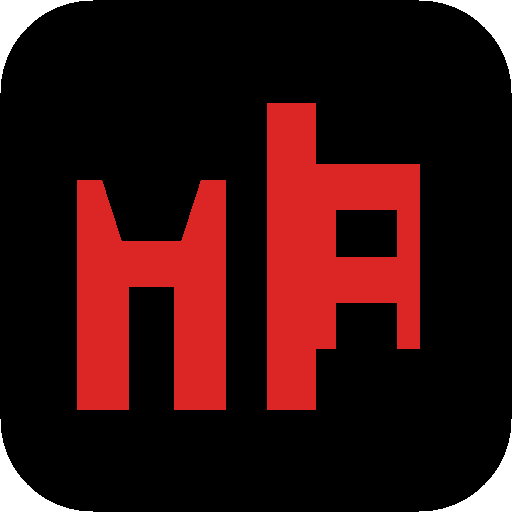
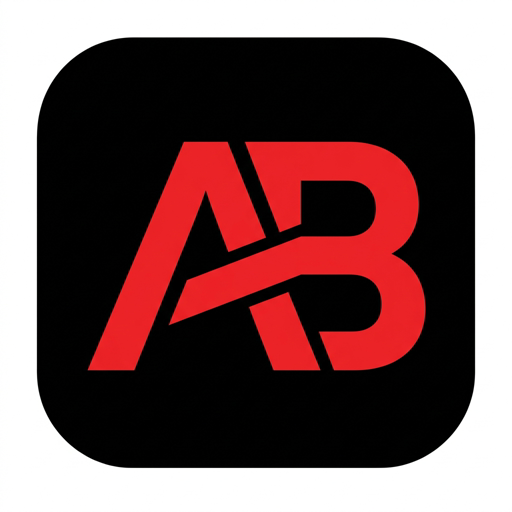
feat: implement PWA support with VitePWA
Integrate vite-plugin-pwa for improved offline capabilities and installation experience. Updated branding assets, unified the logo design, and removed legacy manual service worker unregistration logic.

diff --git a/components/Layout.tsx b/components/Layout.tsx
@@ -84,17 +84,27 @@ export function HeaderTitle({ text }: { text: string }) {
 export function Logo({ size = "text-4xl", subSize = "text-xs", collapsed = false }: { size?: string, subSize?: string, collapsed?: boolean }) {
   if (collapsed) {
     return (
-      <div className="p-2 bg-card rounded-xl border border-border shadow-2xl flex items-center justify-center">
-        <span className="text-red-600 font-black italic text-xs transform -skew-x-12">AB</span>
+      <div className="p-1.5 bg-zinc-900 rounded-xl border border-white/10 shadow-2xl flex items-center justify-center">
+        <svg viewBox="0 0 100 100" className="w-5 h-5">
+          <path d="M20 20 L20 80 M20 50 L50 50 M50 20 L50 80 M50 20 L80 20 L80 50 L50 50 L80 50 L80 80 L50 80" stroke="#DC2626" strokeWidth="12" fill="none" strokeLinecap="square" strokeLinejoin="miter" />
+        </svg>
       </div>
     );
   }
   return (
     <div className="text-center group select-none flex flex-col items-center justify-center w-full overflow-hidden px-2">
-      <h1 className={`${size} font-black italic mb-0 transform -skew-x-12 tracking-tighter transition-all text-foreground uppercase leading-[0.9] px-1`} style={{ textShadow: '1px 1px 0px currentColor, -1px -1px 0px currentColor, 1px -1px 0px currentColor, -1px 1px 0px currentColor' }}>
-        AB<span className="text-red-600">FIT</span>
-      </h1>
-      <p className={`${subSize} text-muted-foreground tracking-tight sm:tracking-[0.25em] uppercase font-bold leading-none mt-3 sm:mt-4 opacity-80 whitespace-nowrap overflow-hidden text-ellipsis w-full`}>Assessoria em Treinamentos Físicos</p>
+      <div className="relative mb-3 group-hover:scale-105 transition-transform duration-500">
+        <svg viewBox="0 0 160 100" className="h-16 sm:h-20 drop-shadow-[0_0_15px_rgba(220,38,38,0.4)]">
+          {/* Monograma AB Estilizado - Alinhado com o screenshot */}
+          <g transform="translate(10, 10)">
+            {/* Letra A */}
+            <path d="M0 0 L0 80 M0 40 L40 40 M40 0 L40 80" stroke="#FFFFFF" strokeWidth="16" fill="none" />
+            {/* Letra B */}
+            <path d="M60 0 L60 80 M60 0 L110 0 L110 40 L60 40 L110 40 L110 80 L60 80" stroke="#DC2626" strokeWidth="16" fill="none" />
+          </g>
+        </svg>
+      </div>
+      <p className={`${subSize} text-muted-foreground tracking-tight sm:tracking-[0.25em] uppercase font-bold leading-none mt-1 opacity-80 whitespace-nowrap overflow-hidden text-ellipsis w-full`}>Assessoria em Treinamentos Físicos</p>
     </div>
   );
 }

diff --git a/vite.config.ts b/vite.config.ts
@@ -1,6 +1,7 @@
 
 import { defineConfig, loadEnv } from 'vite';
 import react from '@vitejs/plugin-react';
+import { VitePWA } from 'vite-plugin-pwa';
 // Fix: Import process explicitly from node:process to ensure proper typing in Node environment
 import process from 'node:process';
 
@@ -8,7 +9,52 @@ export default defineConfig(({ mode }) => {
   // Fix: Use process.cwd() from the imported node process to safely load environment variables
   const env = loadEnv(mode, process.cwd(), '');
   return {
-    plugins: [react()],
+    plugins: [
+      react(),
+      VitePWA({
+        registerType: 'autoUpdate',
+        includeAssets: ['favicon.ico', 'apple-touch-icon.png', 'pwa-192x192.png', 'pwa-512x512.png'],
+        manifest: {
+          id: '/',
+          name: 'ABFIT: Oficial',
+          short_name: 'ABFIT',
+          description: 'Assessoria em Treinamentos Físicos ABFIT',
+          theme_color: '#000000',
+          background_color: '#000000',
+          display: 'standalone',
+          orientation: 'portrait',
+          start_url: '/',
+          scope: '/',
+          icons: [
+            {
+              src: '/pwa-192x192.png',
+              sizes: '192x192',
+              type: 'image/png',
+              purpose: 'any'
+            },
+            {
+              src: '/pwa-512x512.png',
+              sizes: '512x512',
+              type: 'image/png',
+              purpose: 'any'
+            },
+            {
+              src: '/pwa-512x512.png',
+              sizes: '512x512',
+              type: 'image/png',
+              purpose: 'maskable'
+            }
+          ]
+        },
+        devOptions: {
+          enabled: true,
+          type: 'module'
+        },
+        workbox: {
+          maximumFileSizeToCacheInBytes: 4000000 // 4MB
+        }
+      })
+    ],
     define: {
       'process.env.GEMINI_API_KEY': JSON.stringify(env.GEMINI_API_KEY || ""),
       'process.env.API_KEY': JSON.stringify(env.GEMINI_API_KEY || env.API_KEY || env.REACT_APP_GEMINI_API_KEY || ""),

diff --git a/components/InstallPrompt.tsx b/components/InstallPrompt.tsx
@@ -56,8 +56,13 @@ export function InstallPrompt({ onClose }: { onClose: () => void }) {
           <button onClick={onClose} className="absolute top-6 right-6 p-2 text-zinc-500 hover:text-white transition-colors bg-zinc-800 rounded-full"><X size={20}/></button>
           
           <div className="flex flex-col items-center text-center">
-             <div className="w-16 h-16 bg-gradient-to-br from-red-600 to-black rounded-3xl flex items-center justify-center shadow-2xl border border-white/10 mb-4">
-                <Smartphone size={32} className="text-white" />
+             <div className="w-20 h-20 bg-black rounded-3xl flex items-center justify-center shadow-2xl border border-red-600/30 mb-4 overflow-hidden">
+                <svg viewBox="0 0 160 100" className="w-14 drop-shadow-[0_0_10px_rgba(220,38,38,0.5)]">
+                  <g transform="translate(10, 10)">
+                    <path d="M0 0 L0 80 M0 40 L40 40 M40 0 L40 80" stroke="#FFFFFF" strokeWidth="16" fill="none" />
+                    <path d="M60 0 L60 80 M60 0 L110 0 L110 40 L60 40 L110 40 L110 80 L60 80" stroke="#DC2626" strokeWidth="16" fill="none" />
+                  </g>
+                </svg>
              </div>
              
              <h3 className="text-xl sm:text-2xl font-black uppercase italic tracking-tighter text-white mb-1">Instalar Aplicativo ABFIT</h3>

diff --git a/index.html b/index.html
@@ -17,7 +17,7 @@
     <meta name="apple-mobile-web-app-title" content="AB">
     
     <!-- Ícone para iOS -->
-    <link rel="apple-touch-icon" href="/pwa-192x192.png">
+    <link rel="apple-touch-icon" href="/apple-touch-icon.png">
 
     <meta name="mobile-web-app-capable" content="yes">
     <meta name="application-name" content="AB">
@@ -77,22 +77,6 @@
     <link rel="stylesheet" href="https://unpkg.com/leaflet@1.9.4/dist/leaflet.css" integrity="sha256-p4NxAoJBhIIN+hmNHrzRCf9tD/miZyoHS5obTRR9BMY=" crossorigin="" />
     <script>
         window.__app_id = "chaveunica-225e0";
-
-        // FORÇA A REMOÇÃO DO SERVICE WORKER PARA EVITAR CACHE STALE
-        if ('serviceWorker' in navigator) {
-            navigator.serviceWorker.getRegistrations().then(function(registrations) {
-                for(let registration of registrations) {
-                    registration.unregister();
-                }
-            });
-        }
-        // Limpa caches antigas
-        if ('caches' in window) {
-            caches.keys().then(function(names) {
-                for (let name of names)
-                    caches.delete(name);
-            });
-        }
     </script>
     <style>
       :root {
